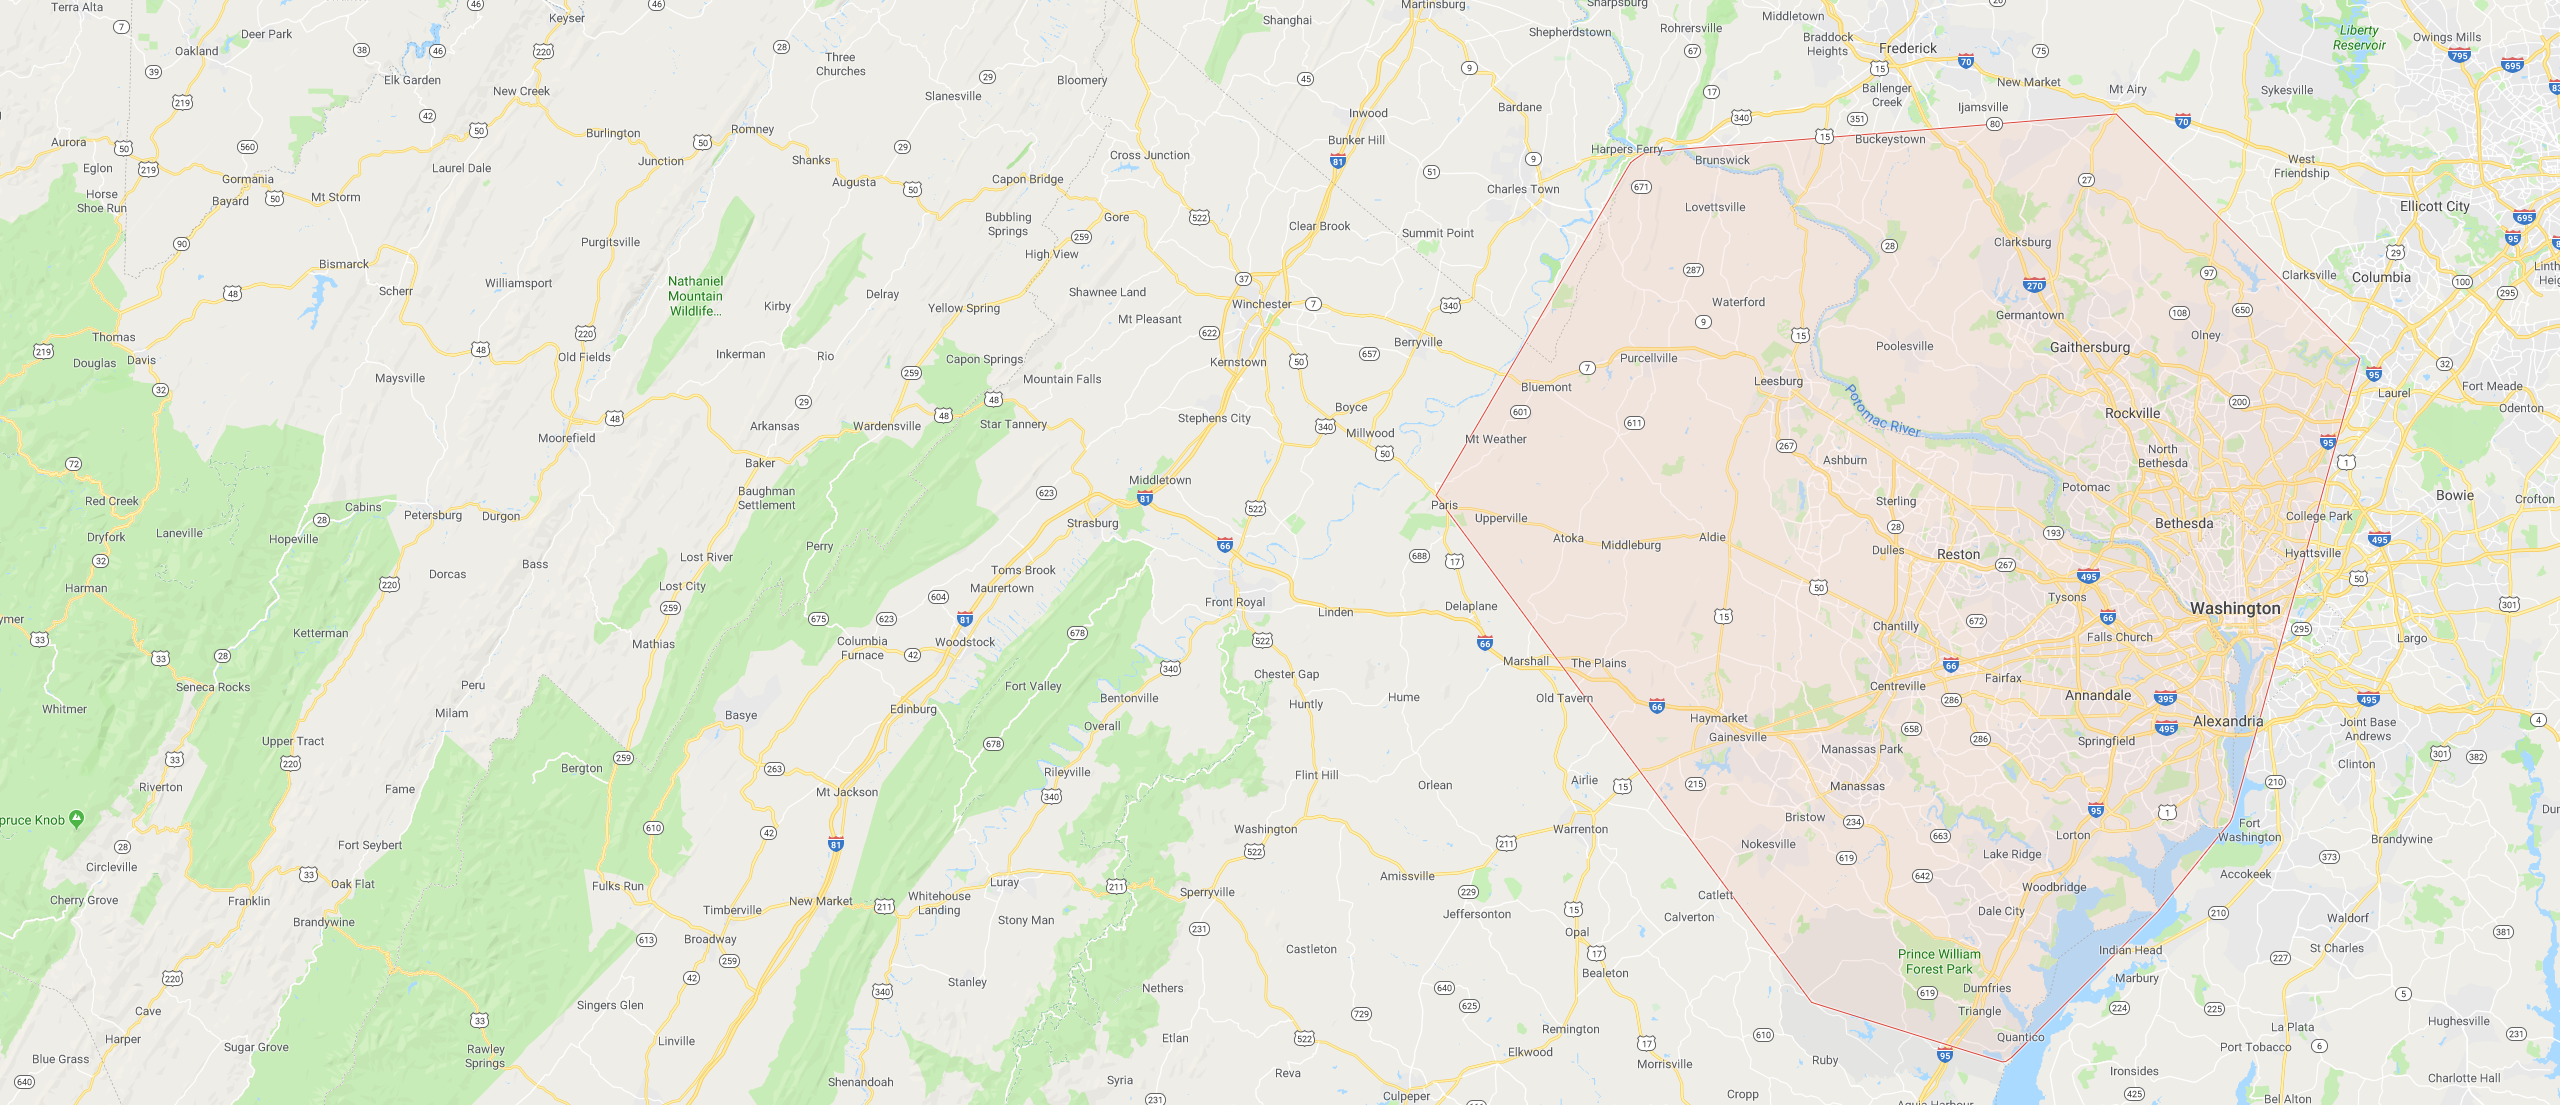
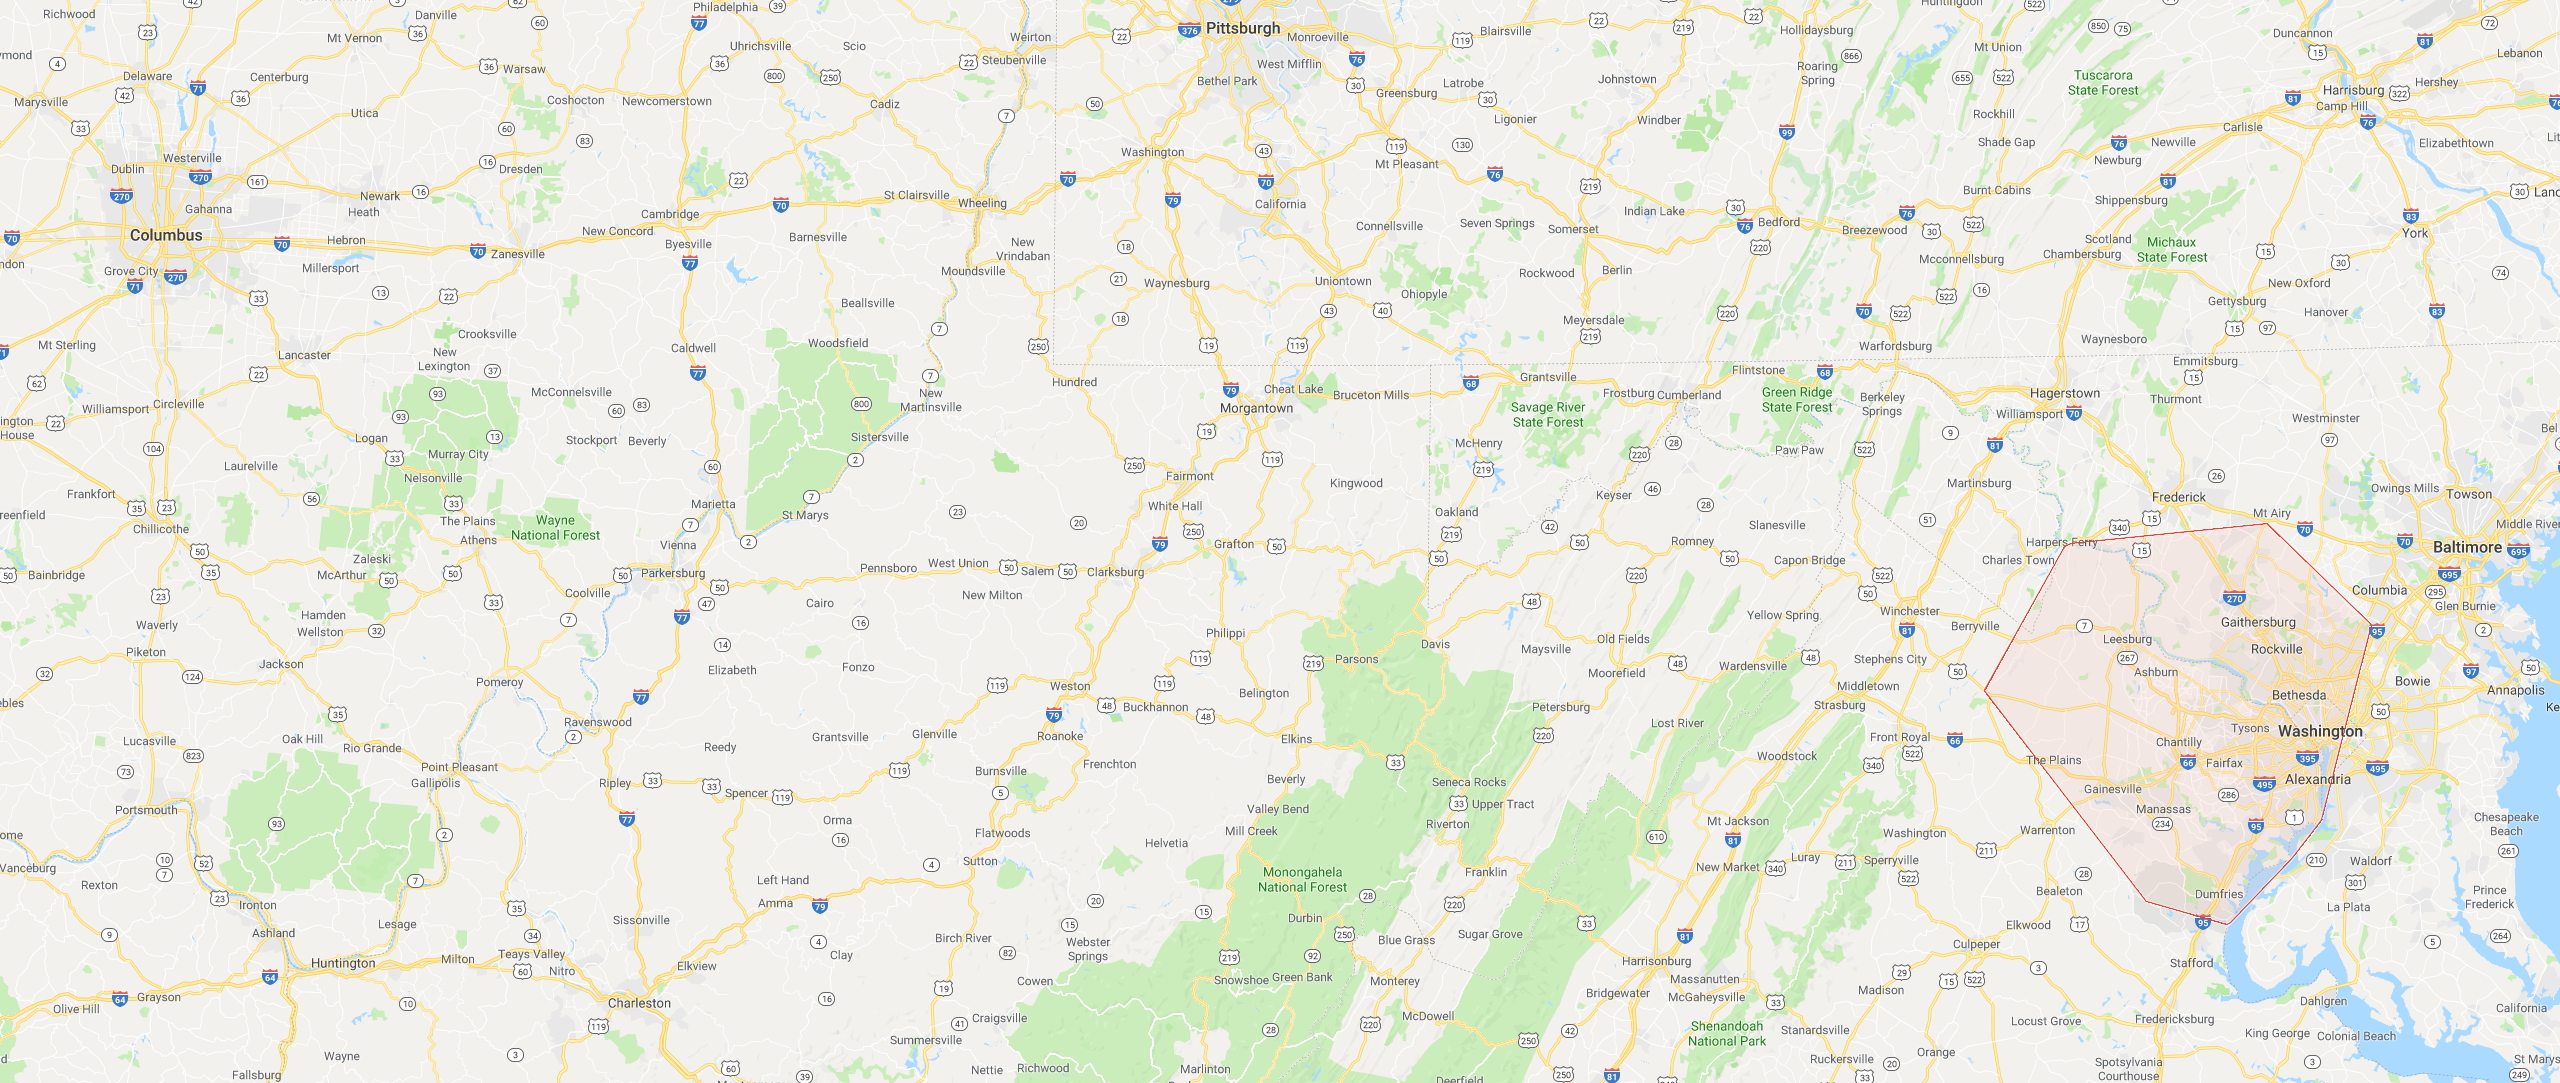
fixing background image.

diff --git a/resources/css/index.css b/resources/css/index.css
@@ -32,12 +32,17 @@ body {
     margin-left: auto;
     margin-right: auto;
     border-radius: 3px;
-    width: 1200px;
+    width: 1000px;
     background: green;
+}
+
+#contact_form_instruction {
+    margin: 10
 }
 
 #contact_form_left {
     flex: 2;
+    display: flex;
     background: pink;
 }
 
@@ -47,11 +52,14 @@ body {
 }
 
 #contact_main_block_bottom {
-    background-image: url('../img/service_area_map.png');
     position: absolute;
+    width:100%;
+    /* height: 100%; */
     top: 882px;
     bottom: 20px;
-    width:100%;
+    background-image: url('../img/service_area_map.png');
+    background-repeat: no-repeat;
+    background-size: cover;
 }
 
 #contact_main_block_top {

diff --git a/contact/index.html b/contact/index.html
@@ -38,9 +38,9 @@
 
         <div id="contact_form">
             <div id="contact_form_left">
-                <p>Get in touch and we'll get back to you as soon as we can.
+                <h2 id="contact_form_instruction">Get in touch and we'll get back to you as soon as we can.
                     We look forward to hearing from you!
-                </p>
+                </h2>
             </div>
             <div id="contact_form_right">
                 <ul style="list-style: none;">
